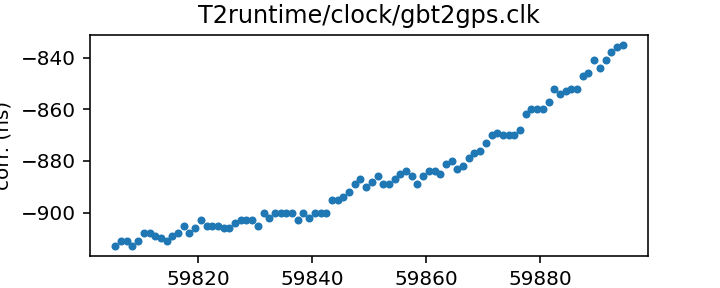
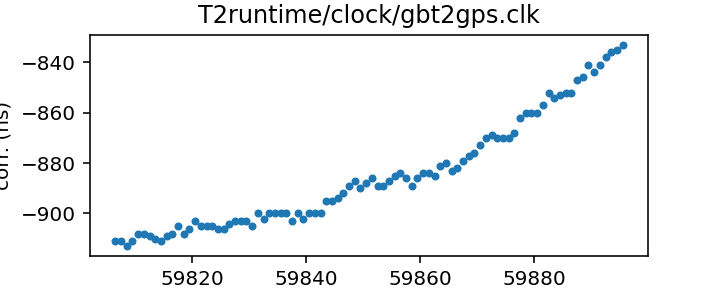
Routine gh-pages update from Github action Sun Nov 13 20:34:13 UTC 2022

diff --git a/status.md b/status.md
@@ -13,17 +13,17 @@ name of each clock file links to a page with more details.
 
 | Name | File | Corrections start | Corrections end | Last check date | Last check result 
 |:--- |:--- | --- | --- | --- |:--- 
-| [GPS to UTC](T2runtime/clock/gps2utc.clk.html) | `T2runtime/clock/gps2utc.clk` | 1993-01-01 MJD 48988.0 | 2022-10-27 MJD 59879.0 | 2022-11-12 | Unchanged 
-| [GPS to UTC (Combined Clock)](T2runtime/clock/gps2utc_cc.clk.html) | `T2runtime/clock/gps2utc_cc.clk` | 1993-01-01 MJD 48988.0 | 2022-10-27 MJD 59879.0 | 2022-11-12 | Unchanged 
-| [GPS to UTC (Corrected)](T2runtime/clock/gps2utc_c0p.clk.html) | `T2runtime/clock/gps2utc_c0p.clk` | 2010-12-29 MJD 55559.0 | 2022-10-27 MJD 59879.0 | 2022-11-12 | Unchanged 
-| [GBT](tempo/clock/time_gbt.dat.html) | `tempo/clock/time_gbt.dat` | 2000-12-31 MJD 51909.5 | 2022-11-11 MJD 59894.5 | 2022-11-12 | Updated 
-| [GBT (TEMPO2 converted from TEMPO)](T2runtime/clock/gbt2gps.clk.html) | `T2runtime/clock/gbt2gps.clk` | 2000-12-31 MJD 51909.5 | 2022-11-11 MJD 59894.5 | 2022-11-12 | Updated 
+| [GPS to UTC](T2runtime/clock/gps2utc.clk.html) | `T2runtime/clock/gps2utc.clk` | 1993-01-01 MJD 48988.0 | 2022-10-27 MJD 59879.0 | 2022-11-13 | Unchanged 
+| [GPS to UTC (Combined Clock)](T2runtime/clock/gps2utc_cc.clk.html) | `T2runtime/clock/gps2utc_cc.clk` | 1993-01-01 MJD 48988.0 | 2022-10-27 MJD 59879.0 | 2022-11-13 | Unchanged 
+| [GPS to UTC (Corrected)](T2runtime/clock/gps2utc_c0p.clk.html) | `T2runtime/clock/gps2utc_c0p.clk` | 2010-12-29 MJD 55559.0 | 2022-10-27 MJD 59879.0 | 2022-11-13 | Unchanged 
+| [GBT](tempo/clock/time_gbt.dat.html) | `tempo/clock/time_gbt.dat` | 2000-12-31 MJD 51909.5 | 2022-11-12 MJD 59895.5 | 2022-11-13 | Updated 
+| [GBT (TEMPO2 converted from TEMPO)](T2runtime/clock/gbt2gps.clk.html) | `T2runtime/clock/gbt2gps.clk` | 2000-12-31 MJD 51909.5 | 2022-11-12 MJD 59895.5 | 2022-11-13 | Updated 
 | [Jodrell Bank](T2runtime/clock/jb2gps.clk.html) | `T2runtime/clock/jb2gps.clk` | 2006-10-13 MJD 54021.4 | 2021-11-03 MJD 59521.0 | 2022-11-09 | Unchanged 
 | [Jodrell Bank Roach](T2runtime/clock/jbroach2jb.clk.html) | `T2runtime/clock/jbroach2jb.clk` | 2006-10-13 MJD 54021.4 | 2018-03-20 MJD 58197.6 | 2022-11-09 | Unchanged 
 | [Jodrell Bank DFB](T2runtime/clock/jbdfb2jb.clk.html) | `T2runtime/clock/jbdfb2jb.clk` | 2006-10-13 MJD 54021.4 | 2017-05-11 MJD 57884.0 | 2022-11-09 | Unchanged 
 | [Meerkat (observatory)](T2runtime/clock/mk2utc_observatory.clk.html) | `T2runtime/clock/mk2utc_observatory.clk` | 2019-01-01 MJD 58484.0 | 2022-10-05 MJD 59858.0 | 2022-11-07 | **Failed to download** 
-| [Leap seconds](tempo/clock/leap.sec.html) | `tempo/clock/leap.sec` | 1972-07-01 MJD 41499.0 | 2017-01-01 MJD 57754.0 | 2022-11-12 | Unchanged 
-| [UT1 table](tempo/clock/ut1.dat.html) | `tempo/clock/ut1.dat` | 1973-01-02 MJD 41684.0 | 2023-11-18 MJD 60266.0 | 2022-11-12 | Unchanged 
+| [Leap seconds](tempo/clock/leap.sec.html) | `tempo/clock/leap.sec` | 1972-07-01 MJD 41499.0 | 2017-01-01 MJD 57754.0 | 2022-11-13 | Unchanged 
+| [UT1 table](tempo/clock/ut1.dat.html) | `tempo/clock/ut1.dat` | 1973-01-02 MJD 41684.0 | 2023-11-18 MJD 60266.0 | 2022-11-13 | Unchanged 
 
 
 

diff --git a/T2runtime/clock/gbt2gps.clk.md b/T2runtime/clock/gbt2gps.clk.md
@@ -23,14 +23,13 @@ If questions arise about the conversion, contact Anne Archibald
 | Format | tempo2 |
 | Bogus last correction | False |
 | Clock file start | 2000-12-31 MJD 51909.5 |
-| Clock file end | 2022-11-11 MJD 59894.5 |
+| Clock file end | 2022-11-12 MJD 59895.5 |
 | Update interval (days) | 1 |
-| Last update attempt | 2022-11-12 |
+| Last update attempt | 2022-11-13 |
 | Last update result | Updated |
 
 Log entries from the last few update attempts:
 ```
-2022-11-03 20:28:51.377 - Updated
 2022-11-04 20:36:42.437 - Updated
 2022-11-05 20:35:36.397 - Updated
 2022-11-06 20:33:42.746 - Updated
@@ -40,12 +39,13 @@ Log entries from the last few update attempts:
 2022-11-10 20:35:51.859 - Updated
 2022-11-11 20:34:49.846 - Updated
 2022-11-12 20:33:44.670 - Updated
+2022-11-13 20:33:40.847 - Updated
 ```
 [Full log](https://raw.githubusercontent.com/ipta/pulsar-clock-corrections/main/log/T2runtime/clock/gbt2gps.clk.log)
 
 Leading comments from clock file:
 
-    # This file was automatically converted from tempo/clock/time_gbt.dat on 2022-11-12 20:33:44.591
+    # This file was automatically converted from tempo/clock/time_gbt.dat on 2022-11-13 20:33:40.757
 
 
 

diff --git a/tempo/clock/time_gbt.dat.md b/tempo/clock/time_gbt.dat.md
@@ -18,14 +18,13 @@ If questions arise, contact Ryan S. Lynch <rlynch@nrao.edu>.
 | Format | tempo |
 | Bogus last correction | False |
 | Clock file start | 2000-12-31 MJD 51909.5 |
-| Clock file end | 2022-11-11 MJD 59894.5 |
+| Clock file end | 2022-11-12 MJD 59895.5 |
 | Update interval (days) | 1 |
-| Last update attempt | 2022-11-12 |
+| Last update attempt | 2022-11-13 |
 | Last update result | Updated |
 
 Log entries from the last few update attempts:
 ```
-2022-11-03 20:28:51.283 - Updated
 2022-11-04 20:36:42.367 - Updated
 2022-11-05 20:35:36.308 - Updated
 2022-11-06 20:33:42.662 - Updated
@@ -35,6 +34,7 @@ Log entries from the last few update attempts:
 2022-11-10 20:35:51.770 - Updated
 2022-11-11 20:34:49.765 - Updated
 2022-11-12 20:33:44.587 - Updated
+2022-11-13 20:33:40.754 - Updated
 ```
 [Full log](https://raw.githubusercontent.com/ipta/pulsar-clock-corrections/main/log/tempo/clock/time_gbt.dat.log)
 

diff --git a/T2runtime/clock/gps2utc_c0p.clk.md b/T2runtime/clock/gps2utc_c0p.clk.md
@@ -30,12 +30,11 @@ about the BIPM's published corrections, contact <tai@bipm.org>.
 | Clock file start | 2010-12-29 MJD 55559.0 |
 | Clock file end | 2022-10-27 MJD 59879.0 |
 | Update interval (days) | 1 |
-| Last update attempt | 2022-11-12 |
+| Last update attempt | 2022-11-13 |
 | Last update result | Unchanged |
 
 Log entries from the last few update attempts:
 ```
-2022-11-03 20:28:50.800 - Unchanged
 2022-11-04 20:36:41.888 - Unchanged
 2022-11-05 20:35:35.283 - Unchanged
 2022-11-06 20:33:41.735 - Unchanged
@@ -45,6 +44,7 @@ Log entries from the last few update attempts:
 2022-11-10 20:35:50.310 - Updated
 2022-11-11 20:34:48.672 - Unchanged
 2022-11-12 20:33:43.614 - Unchanged
+2022-11-13 20:33:39.759 - Unchanged
 ```
 [Full log](https://raw.githubusercontent.com/ipta/pulsar-clock-corrections/main/log/T2runtime/clock/gps2utc_c0p.clk.log)
 

diff --git a/T2runtime/clock/gps2utc_cc.clk.md b/T2runtime/clock/gps2utc_cc.clk.md
@@ -29,12 +29,11 @@ about the BIPM's published corrections, contact <tai@bipm.org>.
 | Clock file start | 1993-01-01 MJD 48988.0 |
 | Clock file end | 2022-10-27 MJD 59879.0 |
 | Update interval (days) | 1 |
-| Last update attempt | 2022-11-12 |
+| Last update attempt | 2022-11-13 |
 | Last update result | Unchanged |
 
 Log entries from the last few update attempts:
 ```
-2022-11-03 20:28:50.789 - Unchanged
 2022-11-04 20:36:41.877 - Unchanged
 2022-11-05 20:35:35.269 - Unchanged
 2022-11-06 20:33:41.720 - Unchanged
@@ -44,6 +43,7 @@ Log entries from the last few update attempts:
 2022-11-10 20:35:50.270 - Updated
 2022-11-11 20:34:48.657 - Unchanged
 2022-11-12 20:33:43.601 - Unchanged
+2022-11-13 20:33:39.745 - Unchanged
 ```
 [Full log](https://raw.githubusercontent.com/ipta/pulsar-clock-corrections/main/log/T2runtime/clock/gps2utc_cc.clk.log)
 

diff --git a/T2runtime/clock/gps2utc.clk.md b/T2runtime/clock/gps2utc.clk.md
@@ -32,12 +32,11 @@ about the BIPM's published corrections, contact <tai@bipm.org>.
 | Clock file start | 1993-01-01 MJD 48988.0 |
 | Clock file end | 2022-10-27 MJD 59879.0 |
 | Update interval (days) | 1 |
-| Last update attempt | 2022-11-12 |
+| Last update attempt | 2022-11-13 |
 | Last update result | Unchanged |
 
 Log entries from the last few update attempts:
 ```
-2022-11-03 20:28:50.757 - Unchanged
 2022-11-04 20:36:41.843 - Unchanged
 2022-11-05 20:35:35.229 - Unchanged
 2022-11-06 20:33:41.675 - Unchanged
@@ -47,6 +46,7 @@ Log entries from the last few update attempts:
 2022-11-10 20:35:50.165 - Updated
 2022-11-11 20:34:48.614 - Unchanged
 2022-11-12 20:33:43.561 - Unchanged
+2022-11-13 20:33:39.703 - Unchanged
 ```
 [Full log](https://raw.githubusercontent.com/ipta/pulsar-clock-corrections/main/log/T2runtime/clock/gps2utc.clk.log)
 

diff --git a/tempo/clock/leap.sec.md b/tempo/clock/leap.sec.md
@@ -21,12 +21,11 @@ If there are any questions, contact Anne Archibald
 | File start | 1972-07-01 MJD 41499.0 |
 | File end | 2017-01-01 MJD 57754.0 |
 | Update interval (days) | 0 |
-| Last update attempt | 2022-11-12 |
+| Last update attempt | 2022-11-13 |
 | Last update result | Unchanged |
 
 Log entries from the last few update attempts:
 ```
-2022-11-03 20:28:54.526 - Unchanged
 2022-11-04 20:36:42.474 - Unchanged
 2022-11-05 20:35:36.452 - Unchanged
 2022-11-06 20:33:42.788 - Unchanged
@@ -36,5 +35,6 @@ Log entries from the last few update attempts:
 2022-11-10 20:35:54.994 - Unchanged
 2022-11-11 20:34:49.897 - Unchanged
 2022-11-12 20:33:44.723 - Unchanged
+2022-11-13 20:33:40.901 - Unchanged
 ```
 [Full log](https://raw.githubusercontent.com/ipta/pulsar-clock-corrections/main/log/tempo/clock/leap.sec.log)

diff --git a/tempo/clock/ut1.dat.md b/tempo/clock/ut1.dat.md
@@ -30,12 +30,11 @@ If there are any questions, contact Anne Archibald
 | File start | 1973-01-02 MJD 41684.0 |
 | File end | 2023-11-18 MJD 60266.0 |
 | Update interval (days) | 0 |
-| Last update attempt | 2022-11-12 |
+| Last update attempt | 2022-11-13 |
 | Last update result | Unchanged |
 
 Log entries from the last few update attempts:
 ```
-2022-11-03 20:29:02.697 - Updated
 2022-11-04 20:36:50.815 - Unchanged
 2022-11-05 20:35:49.505 - Unchanged
 2022-11-06 20:33:56.016 - Unchanged
@@ -45,5 +44,6 @@ Log entries from the last few update attempts:
 2022-11-10 20:36:10.888 - Updated
 2022-11-11 20:35:03.375 - Unchanged
 2022-11-12 20:33:58.975 - Unchanged
+2022-11-13 20:33:54.035 - Unchanged
 ```
 [Full log](https://raw.githubusercontent.com/ipta/pulsar-clock-corrections/main/log/tempo/clock/ut1.dat.log)
